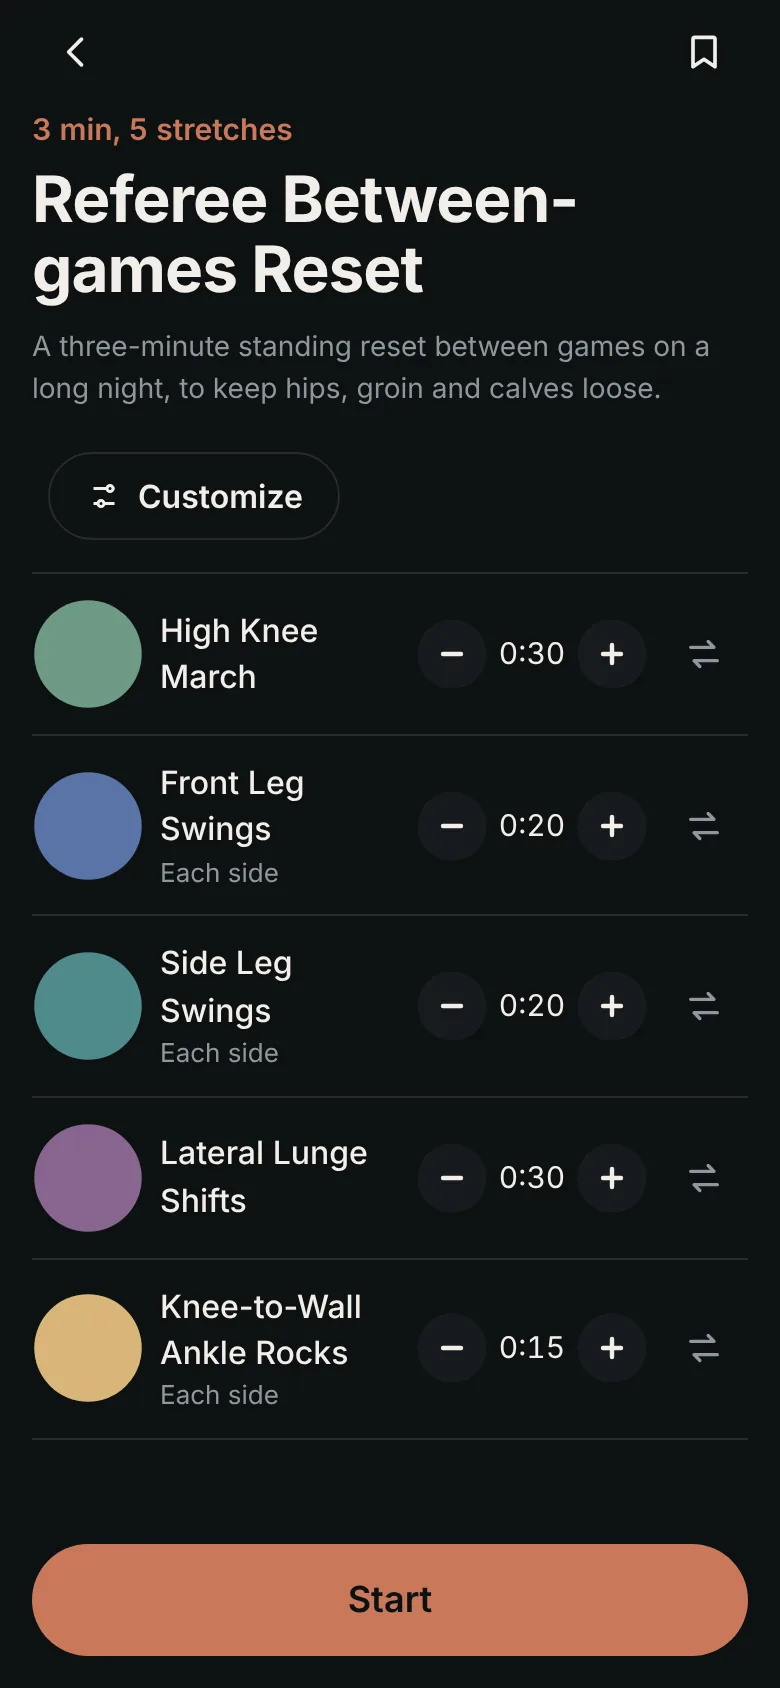
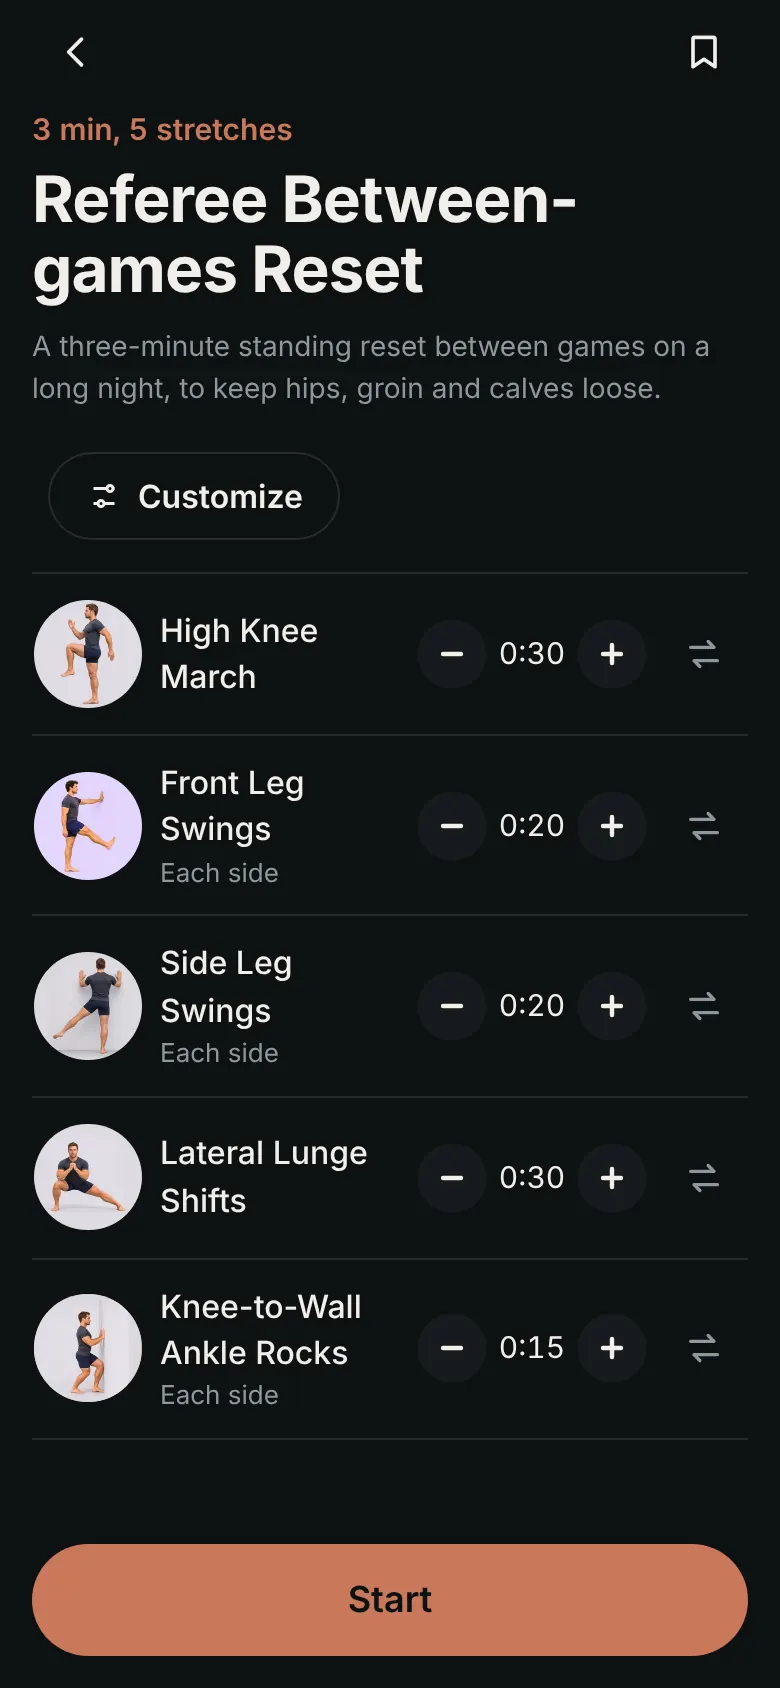
Z1b: between-games app screenshot retaken from the live app (cda5ddc6b18a), now with real stretch pictures; caption 'Pictures made with AI.'
Claude-Session: https://claude.ai/code/session_01VNuq4d9RwdVpz2hhqNG4nu

Changed region(s): [[0.0308, 0.5545, 0.1846, 0.8318], [0.0308, 0.3389, 0.1846, 0.5237]]

diff --git a/site-preview/index.html b/site-preview/index.html
@@ -92,10 +92,10 @@
             <picture>
               <source type="image/avif" srcset="assets/img/app-between-games-390.avif 390w, assets/img/app-between-games-780.avif 780w" sizes="(min-width: 960px) 300px, 260px">
               <source type="image/webp" srcset="assets/img/app-between-games-390.webp 390w, assets/img/app-between-games-780.webp 780w" sizes="(min-width: 960px) 300px, 260px">
-              <img src="assets/img/app-between-games-390.webp" width="390" height="844" loading="lazy" decoding="async" alt="The MeFlex app open on the Referee Between-games Reset, with a Start button.">
+              <img src="assets/img/app-between-games-390.webp" width="390" height="844" loading="lazy" decoding="async" alt="The MeFlex app open on the Referee Between-games Reset: five stretches, each with its picture and hold time, and a Start button.">
             </picture>
           </div>
-          <p class="phone-cap">The Between-games Reset in the app.</p>
+          <p class="phone-cap">The Between-games Reset in the app. Pictures made with AI.</p>
         </div>
       </div>
 

diff --git a/site-preview/assets/CREDITS.md b/site-preview/assets/CREDITS.md
@@ -22,7 +22,7 @@ How they were checked:
 
 ## App pictures
 The phone-frame screens (img/app-*.webp, img/app-*.avif) are MeFlex's own,
-made by meflex/tools/site_assets.js from the built app on Nov 15, 2026.
+made by meflex/tools/site_assets.js from the built app on Nov 15, 2026. app-between-games-* was retaken from the live app (version cda5ddc6b18a, man guide) on Nov 17, 2026, so it shows the real stretch pictures.
 
 ## Fonts
 Self-hosted from Google Fonts (fonts.gstatic.com), Latin subset, fetched Nov 15, 2026 (list in fonts/fonts.json).
